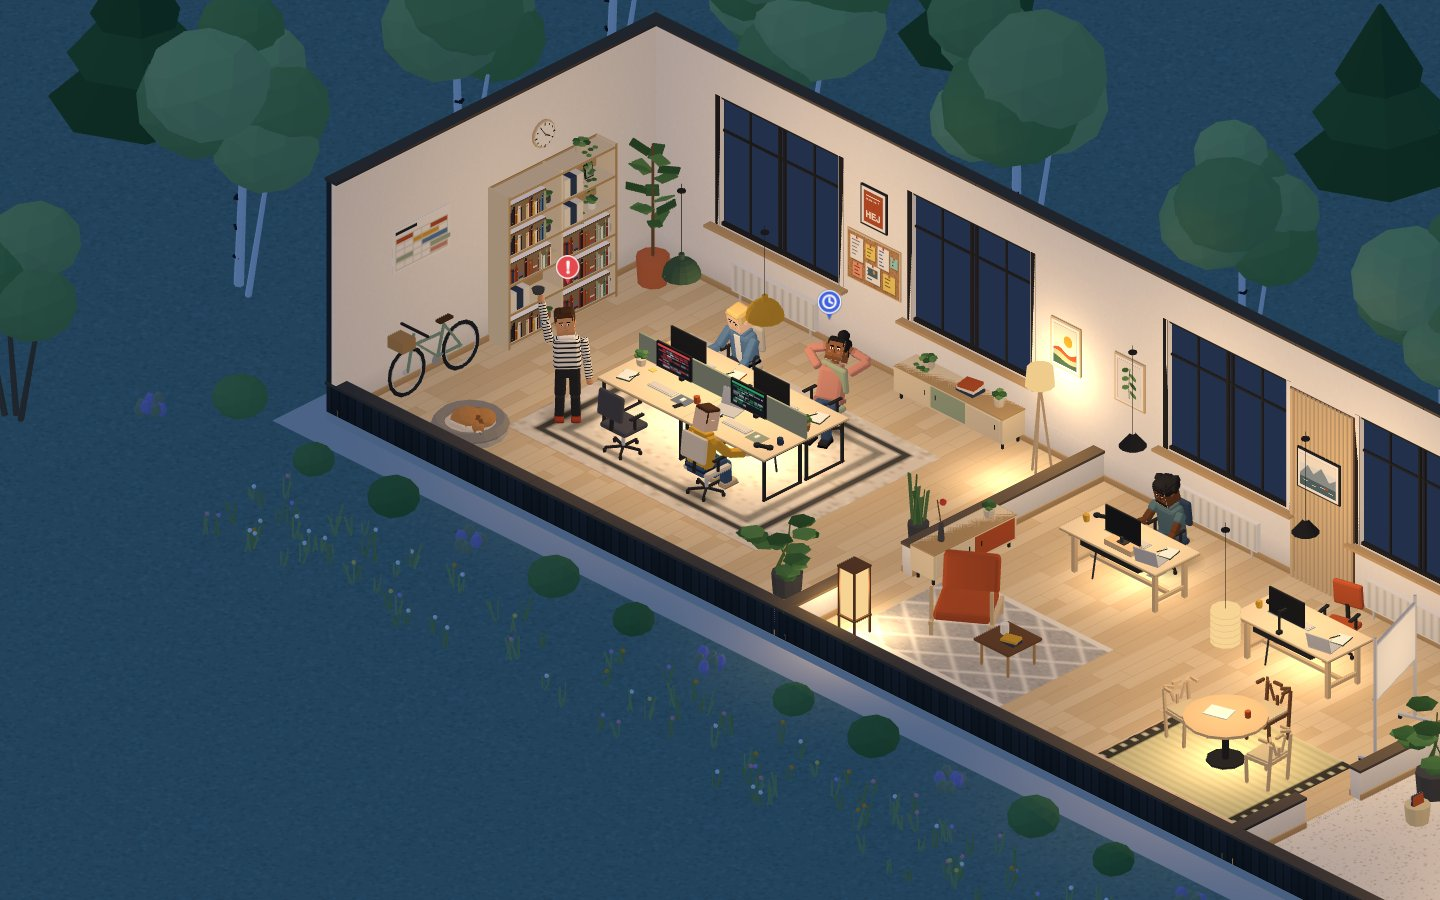
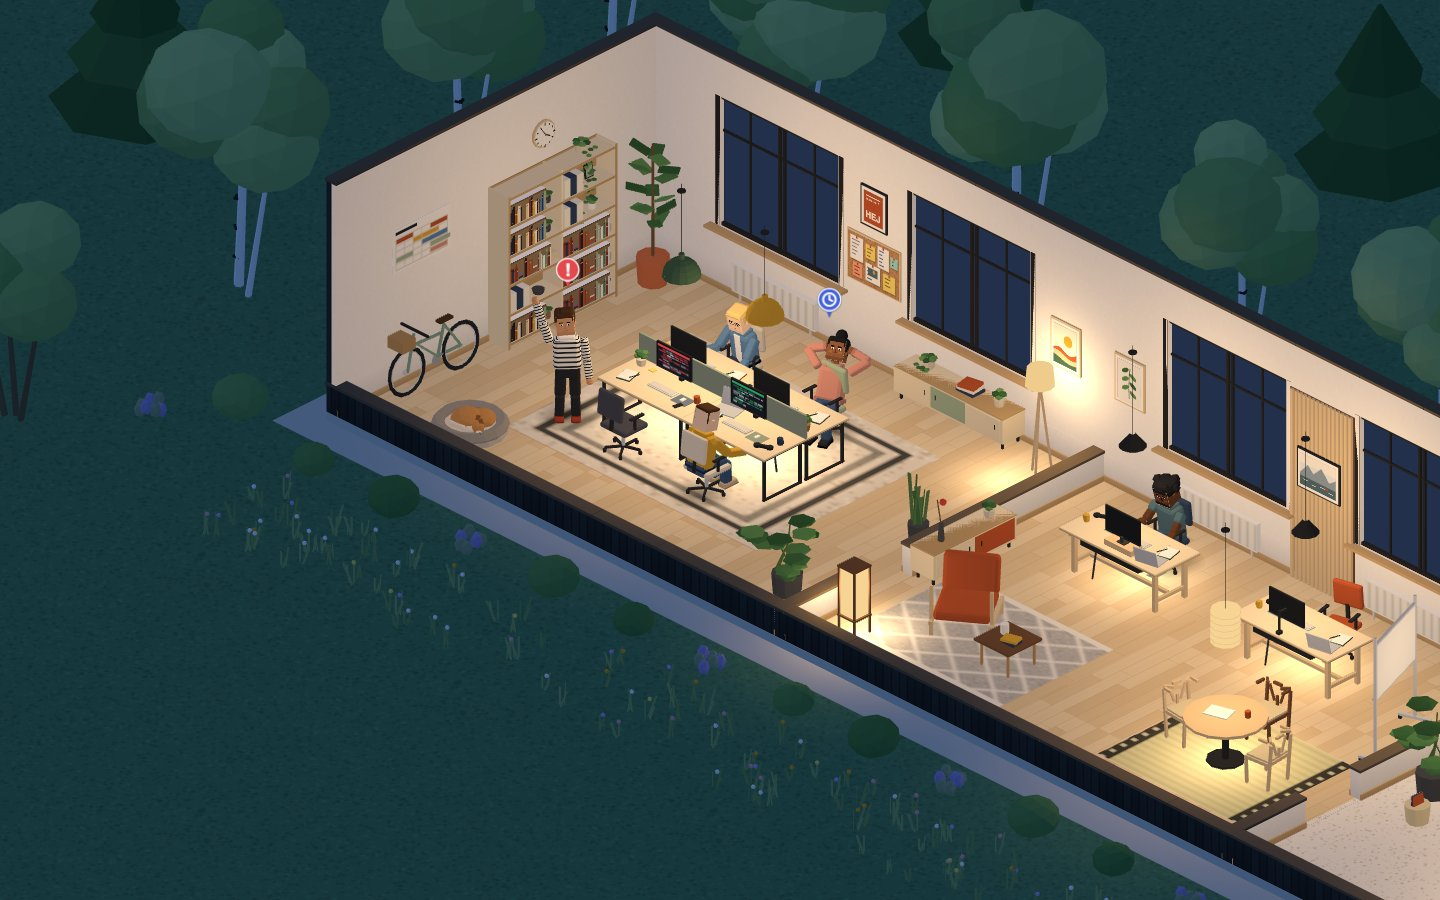
world: a greener night lawn, dome bulbs that show, and the tree row on the camera's side left out of a turned view

diff --git a/src/client/world/garden.js b/src/client/world/garden.js
@@ -52,7 +52,10 @@ function rowan(kit, x, y, z) {
   for (let k = 0; k < 7; k++) { const a = k * 1.7; kit.sphere(0.06, "#c8443a", x + Math.cos(a) * 0.55, y + 1.45 + (k % 3) * 0.3, z + Math.sin(a) * 0.45, { detail: 0 }); }
 }
 
-export function garden(kit, lamps, p, L, slab, pools = null) {
+// `trees` ({ n, w }: Kits) takes the tree rows behind the back and the left walls, so the room can hide a row that
+// comes round in front of the building when the view turns.
+export function garden(kit, lamps, p, L, slab, pools = null, trees = null) {
+  const north = trees?.n ?? kit, west = trees?.w ?? kit;
   const y = -slab;
   const b = p.bounds;
   const S = L.studio;
@@ -65,10 +68,10 @@ export function garden(kit, lamps, p, L, slab, pools = null) {
 
   // birches behind and to the left, pines further back
   let i = 0;
-  for (let x = b.minX - 2.5; x <= b.maxX + 1.5; x += 2.9, i++) birch(kit, x + jitter(i) * 1.2, y, b.minZ - 2.0 - Math.abs(jitter(i + 7)) * 2.2, 0.95 + jitter(i + 3) * 0.3, i);
-  for (let x = b.minX - 1; x <= b.maxX + 3; x += 4.7, i++) pine(kit, x + jitter(i) * 2, y, b.minZ - 6.2 + jitter(i + 1) * 1.5, 1.1 + jitter(i + 2) * 0.4);
-  for (let z = b.minZ + 0.8; z <= b.maxZ + 1; z += 3.1, i++) birch(kit, b.minX - 2.2 - Math.abs(jitter(i)) * 1.5, y, z + jitter(i + 1), 0.9 + jitter(i + 4) * 0.3, i);
-  for (let z = b.minZ + 2; z <= b.maxZ + 3; z += 4.4, i++) pine(kit, b.minX - 5.8 + jitter(i) * 1.2, y, z, 1 + jitter(i + 2) * 0.3);
+  for (let x = b.minX - 2.5; x <= b.maxX + 1.5; x += 2.9, i++) birch(north, x + jitter(i) * 1.2, y, b.minZ - 2.0 - Math.abs(jitter(i + 7)) * 2.2, 0.95 + jitter(i + 3) * 0.3, i);
+  for (let x = b.minX - 1; x <= b.maxX + 3; x += 4.7, i++) pine(north, x + jitter(i) * 2, y, b.minZ - 6.2 + jitter(i + 1) * 1.5, 1.1 + jitter(i + 2) * 0.4);
+  for (let z = b.minZ + 0.8; z <= b.maxZ + 1; z += 3.1, i++) birch(west, b.minX - 2.2 - Math.abs(jitter(i)) * 1.5, y, z + jitter(i + 1), 0.9 + jitter(i + 4) * 0.3, i);
+  for (let z = b.minZ + 2; z <= b.maxZ + 3; z += 4.4, i++) pine(west, b.minX - 5.8 + jitter(i) * 1.2, y, z, 1 + jitter(i + 2) * 0.3);
 
   // front doors: outer walls with a door on the camera's side of the default view
   const fronts = p.walls.filter((w) => w.door && (!w.a || !w.b) && w.dir === "x" && w.z === b.maxZ);

diff --git a/src/client/world/rooms.js b/src/client/world/rooms.js
@@ -79,10 +79,21 @@ export function buildRooms(p, L, lightOf, rooms, indexOf, outdoor) {
     group.add(mesh);
   }
   let gardenGlow = null;
+  // the garden's tree rows, each with the outer walls it stands behind: a row whose walls are cut is on the camera's
+  // side of the building and would hide the rooms, so it is left out of that view
+  const treeRows = [];
+  const outerWalls = (side) => p.walls.flatMap((w, i) => ((!w.a || !w.b) && (side === "n" ? w.dir === "x" && w.z === p.bounds.minZ : w.dir === "z" && w.x === p.bounds.minX) ? [i] : []));
   {
-    const lot = new Kit(), lamps = new Kit(), pools = new Kit();
-    garden(lot, lamps, p, L, SLAB, pools);
-    group.add(lot.mesh(keep(roomMaterial({ room: outdoor }))));
+    const lot = new Kit(), lamps = new Kit(), pools = new Kit(), trees = { n: new Kit(), w: new Kit() };
+    garden(lot, lamps, p, L, SLAB, pools, trees);
+    const lotMat = keep(roomMaterial({ room: outdoor }));
+    group.add(lot.mesh(lotMat));
+    for (const side of ["n", "w"]) {
+      if (trees[side].empty) continue;
+      const mesh = trees[side].mesh(lotMat);
+      group.add(mesh);
+      treeRows.push({ mesh, walls: outerWalls(side) });
+    }
     if (L.night && !pools.empty) {
       const m = new THREE.Mesh(pools.geometry({ ownUv: true }), keep(new THREE.MeshBasicMaterial({ map: glowTexture("rgba(255,205,140,0.45)"), transparent: true, depthWrite: false, blending: THREE.AdditiveBlending })));
       m.renderOrder = 1;
@@ -211,7 +222,9 @@ export function buildRooms(p, L, lightOf, rooms, indexOf, outdoor) {
     if (current) group.remove(current);
     current = perRot.get(r);
     group.add(current);
-    return current.userData.cuts;
+    const cuts = current.userData.cuts;
+    for (const row of treeRows) row.mesh.visible = !(row.walls.length && row.walls.filter((i) => cuts[i]).length * 2 > row.walls.length);
+    return cuts;
   };
 
   // The walls above the kerbs, squashed toward the floor (1 = full height): the world lowers them during a turn.

diff --git a/src/client/world/props.js b/src/client/world/props.js
@@ -324,7 +324,8 @@ export function pendant(kit, glow, L, x, z, { y = 1.75, kind = "bell", top = 2.9
     kit.add(g, color ?? S.forest, x, y, z);
     kit.cyl(0.035, 0.08, color ?? S.forest, x, y + 0.2, z, { seg: 8 });
     glow.cyl(0.2, 0.01, S.paper, x, y + 0.004, z, { seg: 14 });
-    glow.sphere(0.06, S.paper, x, y + 0.03, z, { detail: 1 });
+    // the bulb hangs a little below the rim, so the camera above still sees the lamp is on
+    glow.sphere(0.06, S.paper, x, y - 0.09, z, { detail: 1 });
   } else if (kind === "bell") {
     kit.cyl(0.19, 0.18, S.oak, x, y, z, { top: 0.06, seg: 12, open: true });
     kit.cyl(0.06, 0.03, S.oakDark, x, y + 0.17, z, { seg: 8 });

diff --git a/src/client/world/look.js b/src/client/world/look.js
@@ -94,9 +94,9 @@ const LOOK = {
   },
   // A lawn under the moon, blue-lit and never black: `moon` is added to everything outdoors (ground, lot, courts).
   night: {
-    bg: "#2c3d55", ground: { base: "#6a8a80", alt: "#607f75", kind: "grass" },
+    bg: "#26374a", ground: { base: "#55805c", alt: "#4c7653", kind: "grass" },
     court: { base: "#6a6f78", alt: "#60656e", kind: "raked" }, path: "#4a4f5a",
-    moon: "#4a6a94",
+    moon: "#3c5a80",
     light: { amb: "#3e5898", ambI: 1.0, sky: "#4a64a8", ground: "#1b2030", hemi: 0.45, key: "#8aa0d8", keyI: 0.35, room: 0.6, shadow: 0.0 },
   },
 };
